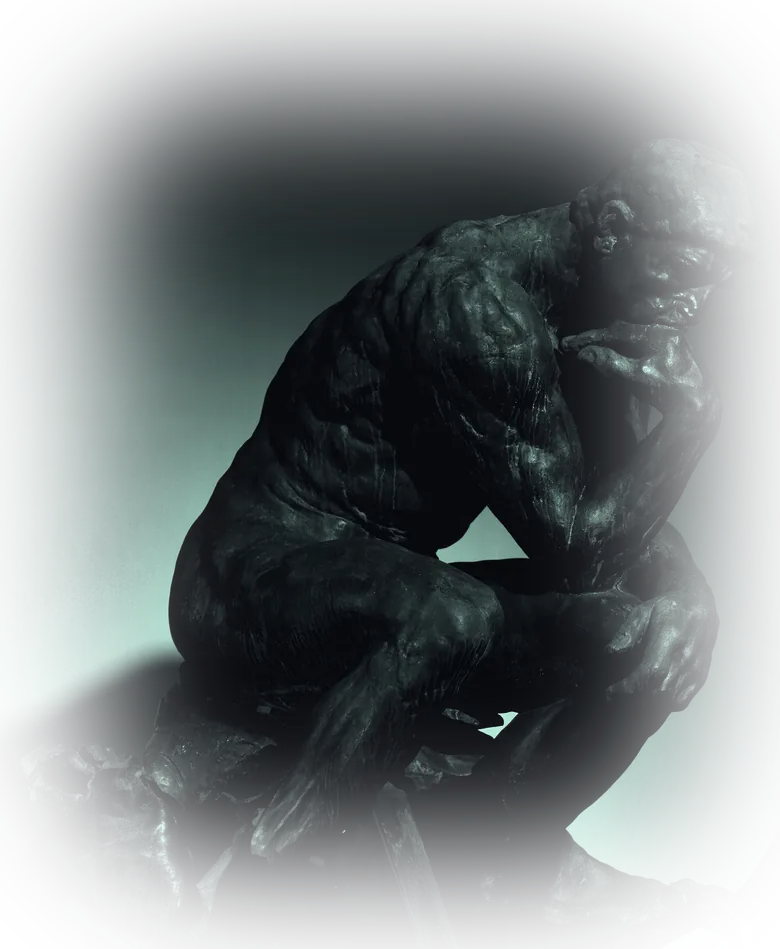
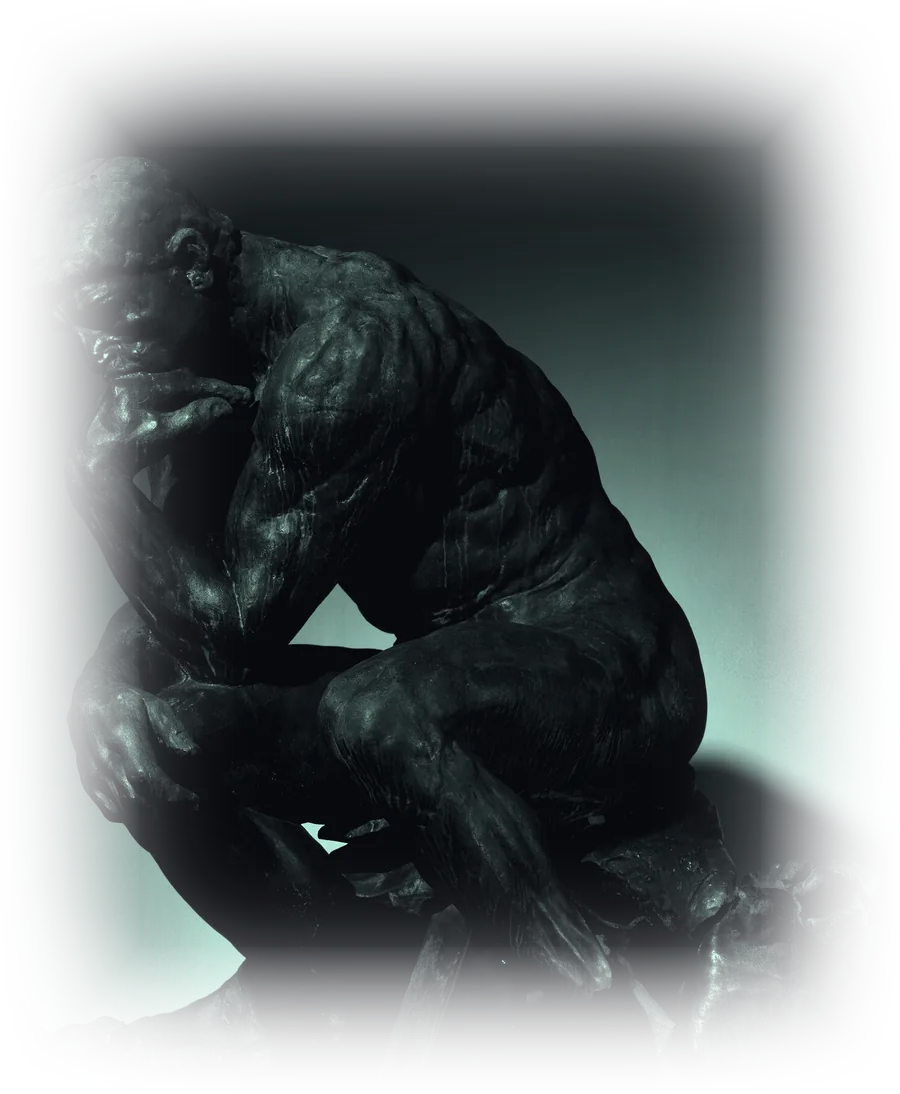
feat(r001): 思想者图版镜像 + 放大 25%，位移改为按 10% 滚动量向下、下界为列表区顶部
- 镜像：资材水平翻转（罗丹《思想者》原照朝右，现朝左面向标题），重新出图 frontend/public/thinker.webp（900×1094，84 KB）
- 放大 25%：宽度 clamp(210px,23vw,350px) → clamp(262px,28.75vw,437px)（实测渲染 289px → 362px）
- 位移规则重写（用户指定）：顶部时位移为 0（最高位）；向下滚动按 scrollY × 10% 向下移动；下界 = 房间列表区顶部（travel = hero 底边 − 图版底边，挂载与 resize 实测，超出即停）。原实现是向上 −14%、上限 ±48px，方向相反且过早触顶，观感上等于没有位移
- 顺带修掉放大后暴露的 4px 横向溢出（right: -3% → 0），页面已无横向滚动条
- 文档：ADR-0010 更新处理管线（加镜像/四边线性衰减/新尺寸）、位移规则、被否方案（首版视差）与修订记录；风格指南 §11 动效条目改写；房间功能页草图说明与变更记录同步
- 实测：`npx tsc --noEmit` 全绿；localhost:5173 实测 scrollY=0 → translate3d(0,0,0)、scrollY=455 → 45.5px（正好 10%）、图版底边始终未越过 hero 底边/列表区顶；可下移行程 70px；document.scrollWidth == clientWidth（无横向溢出）

[Req: r001]

diff --git a/frontend/src/components/ThinkerStatue.tsx b/frontend/src/components/ThinkerStatue.tsx
@@ -4,17 +4,21 @@ interface Props {
   className?: string
 }
 
-/** 视差强度与上下限（px）：位移 = clamp(-scrollY * FACTOR, ±LIMIT) */
-const FACTOR = 0.14
-const LIMIT = 48
+/** 下移速率：滚动量的 10%（用户向下滚 100px，图版向下 10px） */
+const FACTOR = 0.1
 
 /**
- * 首屏右侧的《思想者》图版（罗丹）——随页面滚动产生轻微位移。
+ * 首屏右侧的《思想者》图版（罗丹，已镜像）。
  *
- * - 位移只在 ±48px 内（克制，整个首屏可见期间连续变化，不会早早触顶），用 rAF 合帧，滚动监听 passive；
- * - `prefers-reduced-motion: reduce` 时不绑定滚动，图片静止；
- * - 纯装饰：`alt=""` + `aria-hidden`，不参与语义与键盘；
- * - 资材来源、许可与处理过程见 `docs/03-decisions/r001-adr-0010-visual-assets.md`。
+ * 位移规则（用户指定）：
+ * - 页面在顶部时，图版在**最高位**（位移 0）；
+ * - 向下滚动时，图版按滚动量的 **10%** 向下移动（相对内容呈「变慢」的视差）；
+ * - **下界**：图版底边不得越过房间列表区顶部（即 `.hero` 底边），到界即停；
+ * - `prefers-reduced-motion: reduce` 时不绑定滚动，静止在最高位。
+ *
+ * 实现：滚动用 rAF 合帧 + passive 监听；可移动行程在挂载与窗口尺寸变化时实测一次
+ * （临时清空 transform 量取未位移的几何，再还原），避免每帧触发布局抖动。
+ * 资材来源、许可与处理见 `docs/03-decisions/r001-adr-0010-visual-assets.md`。
  */
 export default function ThinkerStatue({ className }: Props) {
   const ref = useRef<HTMLImageElement | null>(null)
@@ -24,21 +28,42 @@ export default function ThinkerStatue({ className }: Props) {
     if (!node) return
     if (window.matchMedia('(prefers-reduced-motion: reduce)').matches) return
 
+    const hero = node.parentElement
+    if (!hero) return
+
     let frame = 0
+    let maxTravel = 0
+
+    const measure = () => {
+      const previous = node.style.transform
+      node.style.transform = 'none'
+      const statue = node.getBoundingClientRect()
+      const boundary = hero.getBoundingClientRect()
+      node.style.transform = previous
+      maxTravel = Math.max(0, boundary.bottom - statue.bottom)
+    }
+
     const apply = () => {
       frame = 0
-      const raw = -window.scrollY * FACTOR
-      const offset = Math.max(-LIMIT, Math.min(LIMIT, raw))
+      const offset = Math.min(window.scrollY * FACTOR, maxTravel)
       node.style.transform = `translate3d(0, ${offset.toFixed(2)}px, 0)`
     }
+
     const onScroll = () => {
       if (!frame) frame = window.requestAnimationFrame(apply)
     }
+    const onResize = () => {
+      measure()
+      apply()
+    }
 
+    measure()
     apply()
     window.addEventListener('scroll', onScroll, { passive: true })
+    window.addEventListener('resize', onResize)
     return () => {
       window.removeEventListener('scroll', onScroll)
+      window.removeEventListener('resize', onResize)
       if (frame) window.cancelAnimationFrame(frame)
     }
   }, [])

diff --git a/frontend/src/styles/global.css b/frontend/src/styles/global.css
@@ -384,9 +384,9 @@ button.side-item:hover:not(:disabled) { background: var(--panel-strong); color: 
 /* 首屏右侧《思想者》图版：随滚动轻微位移（位移逻辑在 ThinkerStatue.tsx） */
 .hero-thinker {
   position: absolute;
-  top: -5%;
-  right: -3%;
-  width: clamp(210px, 23vw, 350px);
+  top: -7%;
+  right: 0;
+  width: clamp(262px, 28.75vw, 437px);
   height: auto;
   z-index: 0;
   pointer-events: none;
@@ -522,7 +522,7 @@ button.side-item:hover:not(:disabled) { background: var(--panel-strong); color: 
 /* ---------- 窄屏 ---------- */
 @media (max-width: 900px) {
   .auth-wrap { grid-template-columns: 1fr; }
-  .hero-thinker { width: clamp(150px, 40vw, 220px); right: -8%; top: -3%; opacity: 0.5; }
+  .hero-thinker { width: clamp(187px, 50vw, 275px); right: 0; top: -4%; opacity: 0.5; }
   .layout { flex-direction: column; }
   .sidebar, .sidebar.collapsed {
     position: static;

diff --git a/docs/03-decisions/r001-adr-0010-visual-assets.md b/docs/03-decisions/r001-adr-0010-visual-assets.md
@@ -18,9 +18,10 @@ updated: 2026-09-18
 1. **素材**：Wikimedia Commons 上克利夫兰艺术博物馆（Cleveland Museum of Art）藏《思想者》藏品照，**CC0**（公有领域贡献），原图 1920×2275。
    来源文件：`Auguste_Rodin_-_The_Thinker_-_1917.42_-_Cleveland_Museum_of_Art.tif`（Commons 缩略图，取宽 1400）。
 2. **处理管线**（离线用 Pillow 跑一次，产物入库、脚本不入库）：
-   裁掉台座与空档 → 灰度 → gamma 2.75 压暗中灰背景 → 双色调 `ink(7,9,13) → 强调色(196,255,236)` → 内缩圆角矩形遮罩 + 大模糊，**四边 alpha 收敛到 0** → 缩放至 780×949 → WebP q80。
-   最终产物：`frontend/public/thinker.webp`（74 KB，带透明通道）。
-3. **放置与动效**：`.hero-thinker` 绝对定位在大标题右侧（`clamp(210px, 23vw, 350px)`，`pointer-events: none`，`z-index` 低于正文）；`ThinkerStatue.tsx` 在滚动时 `translate3d(0, clamp(-scrollY × 0.14, ±48px), 0)`，rAF 合帧、滚动监听 passive、`prefers-reduced-motion: reduce` 时完全不绑定滚动。
+   裁掉台座与空档 → 灰度 → gamma 2.75 压暗中灰背景 → 双色调 `ink(7,9,13) → 强调色(196,255,236)` → 内缩圆角矩形遮罩 + 大模糊 + **四边线性衰减**（保证边界 alpha 严格为 0）→ 裁紧 → **水平镜像** → 缩放至 900×1094 → WebP q82。
+   最终产物：`frontend/public/thinker.webp`（84 KB，带透明通道，已镜像）。
+3. **放置与动效**（2026-09-18 按用户要求修订）：`.hero-thinker` 绝对定位在大标题右侧，宽 `clamp(262px, 28.75vw, 437px)`（**比首版大 25%**，`right: 0` 以避免横向溢出），`pointer-events: none`，`z-index` 低于正文。
+   位移规则：**顶部时在最高位（位移 0）**；向下滚动时按滚动量的 **10%** 向下移动（`translate3d(0, min(scrollY × 0.10, travel), 0)`）；**下界 = 房间列表区顶部**——`travel = .hero 底边 − 图版底边`（挂载与 resize 时实测，超出即停）。rAF 合帧、滚动监听 passive、`prefers-reduced-motion: reduce` 时完全不绑定滚动（静止在最高位）。
 4. **可达性**：纯装饰图 → `alt=""` + `aria-hidden`，不参与键盘与语义；`title` 给出作品名与作者。
 
 ## 被否的替代方案
@@ -28,6 +29,7 @@ updated: 2026-09-18
 | 方案 | 为什么否掉 |
 | --- | --- |
 | **抠图**（只保留雕像，背景全透明） | 试了三种：大核模糊差分、饱和度（色度）键、边界连通域填充。候选馆藏照的背景都是**非均匀**的渐变摄影棚背景（四角亮度 58–250 不等），三条路径都留下明显光晕或把雕像暗部掏空（见处理日志的预览图）。要达到可用质量需要专门的抠图模型/服务，超出本轮成本 |
+| 首版视差「向上 −14%、上限 ±48px」 | 方向与用户预期相反（往下滚它反而往上走），且上限过早触顶，观感上等于「没有偏移效果」；已按用户要求改为向下 10% + 下界约束 |
 | 用 CSS `mix-blend-mode` 直接混照片 | 背景亮度接近正文灰，混合后整块发亮，等于把照片贴上去 |
 | 引入 three.js / WebGL 把雕像做成 3D | 体积与离线风险大（ADR-0008 已否掉 WebGL 路径），且素材与建模成本更高 |
 | 用 SVG 线描或剪影代替照片 | 视觉重量不够，用户明确要「图片」 |
@@ -36,7 +38,8 @@ updated: 2026-09-18
 
 ## 影响与待办
 
-- 新增静态资产 `frontend/public/thinker.webp`（74 KB）；前端代码新增 `components/ThinkerStatue.tsx`；`styles/global.css` 新增 `.hero-thinker`。
+- 新增静态资产 `frontend/public/thinker.webp`（84 KB，已镜像）；前端代码新增 `components/ThinkerStatue.tsx`；`styles/global.css` 新增 `.hero-thinker`。
+- 2026-09-18 修订记录：资材改为镜像并放大 25%（`right: -3% → 0`，修掉放大后 4px 横向溢出造成的横向滚动条）；位移方向与规则按用户要求重写（见上）。
 - 风格指南新增 §11「图像与资产规范」（来源与许可登记、统一处理管线、体积上限、装饰图可达性、位移上限）。
 - 换图流程：把新图按同一管线处理成 780×949 左右的带透明 WebP，覆盖 `frontend/public/thinker.webp` 即可，组件与样式无需改动。
 - 未做：图片懒加载（首屏元素，按需加载反而更慢）；响应式多尺寸（窄屏用 CSS 缩放，未生成多套 srcset）。

diff --git a/docs/02-modules/r001-rooms-features.md b/docs/02-modules/r001-rooms-features.md
@@ -148,7 +148,7 @@ updated: 2026-09-17
 └──────────────┴──────────────────────────────────────────┘
 ```
 
-- 首屏右侧是《思想者》图版（罗丹）：随页面滚动产生 ≤48px 的轻微位移，窄屏缩小并降低不透明度，`prefers-reduced-motion` 下静止（ADR-0010）。
+- 首屏右侧是《思想者》图版（罗丹，已镜像）：顶部时在最高位，向下滚动时按滚动量的 10% 下移，**下界为房间列表区顶部**（超出即停）；窄屏缩小并降低不透明度，`prefers-reduced-motion` 下静止（ADR-0010）。
 - 侧边栏为常驻导航，可折叠为图标条；窄屏（≤900px）折成横向条（ADR-0007）。
 - 卡片徽标：主题、状态（进行中 / 讨论中 · N 人 / 已结束）、我的角色、已申请、待批数（仅房主/协管）。─────┘
 ```
@@ -244,4 +244,5 @@ updated: 2026-09-17
 | 2026-09-17 | r001 | §4.1 草图更新：登录 / 注册在顶栏右上角、个人信息在侧边栏左下角 | 用户指示（ADR-0009） |
 | 2026-09-17 | r001 | 未登录访问「我的房间」改为「请先登录 + 去登录 / 看全部房间」，不再显示「连不上后端」 | 实测踩到 401 被当成后端故障（ADR-0009 错误呈现规范） |
 | 2026-09-18 | r001 | 首屏大标题右侧加《思想者》图版（随滚动轻微位移） | 用户指示；素材许可与处理见 ADR-0010 |
+| 2026-09-18 | r001 | 图版改为镜像 + 放大 25%；位移改为「顶部为最高位、向下按 10% 滚动量下移、下界为房间列表区顶部」 | 用户指示；原实现方向相反且过早触顶，观感等于没有位移 |
 

diff --git a/docs/04-style/global-style.md b/docs/04-style/global-style.md
@@ -112,6 +112,6 @@ updated: 2026-09-17
 - **统一处理管线**（暗色底上不出现矩形边界）：裁切 → 灰度 → 压暗背景（gamma ≈ 2.5–2.8）→ 双色调（ink → 强调色）→ 遮罩四边收敛到 0 → WebP。
 - **体积**：单张 ≤ 120 KB；首屏资产直接放 `frontend/public/`（不带 hash，便于替换），非首屏走 `src/assets/`。
 - **可达性**：纯装饰图 `alt=""` + `aria-hidden`；有信息含量的图必须写 `alt`。
-- **动效**：图片类视差位移 ≤ 48px，且必须在 `prefers-reduced-motion: reduce` 下完全静止（不绑定滚动监听）。
+- **动效**：图片类视差默认「顶部 = 最高位，向下位移 = 滚动量 × 10%」，且**下界不得越入下一个区块**（位移上限 = 所在区块底边 − 元素底边，挂载与 resize 时实测）；必须在 `prefers-reduced-motion: reduce` 下完全静止（不绑定滚动监听）。放大元素后要复查是否产生横向溢出。
 - 不引外部图床、不用 CDN（离线演示与证书风险，见 ADR-0008）。
 
